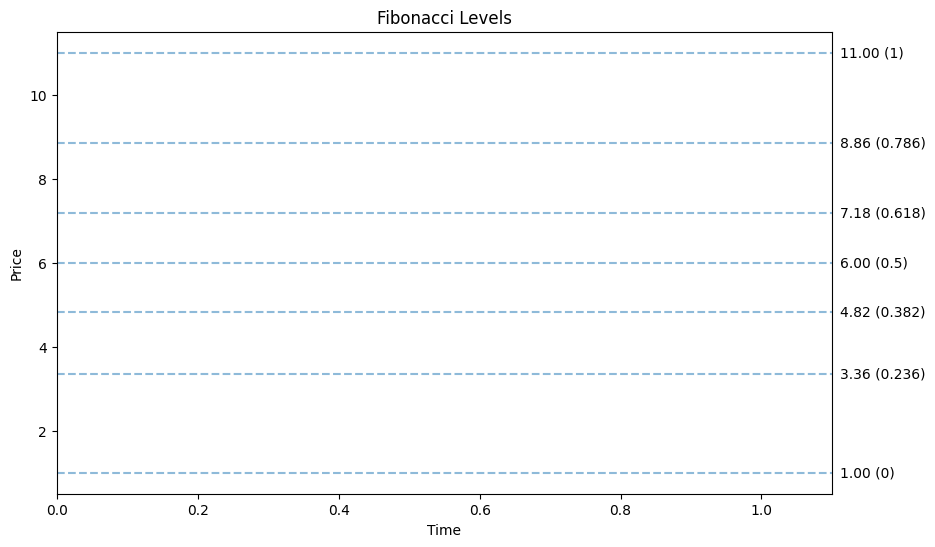
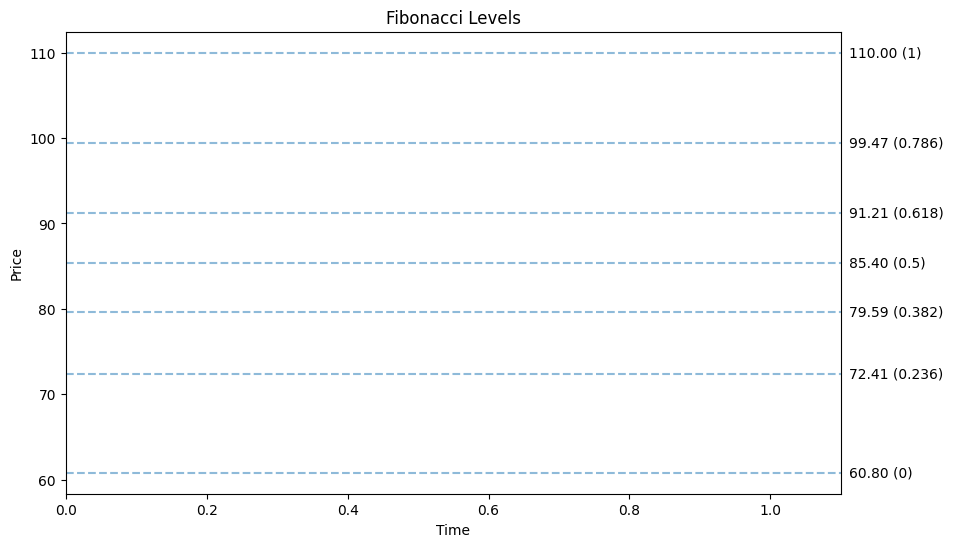
Modify the type(int -> float)

diff --git a/main.py b/main.py
@@ -29,7 +29,7 @@ def plot_fibonacci(high, low):
 
 # 使用高點72.5和低點51.8繪製圖表
 
-hight = int(input("Hight Value:"))
-low = int(input("Low Value:"))
+hight = float(input("Hight Value:"))
+low = float(input("Low Value:"))
 
 plot_fibonacci(hight, low)
